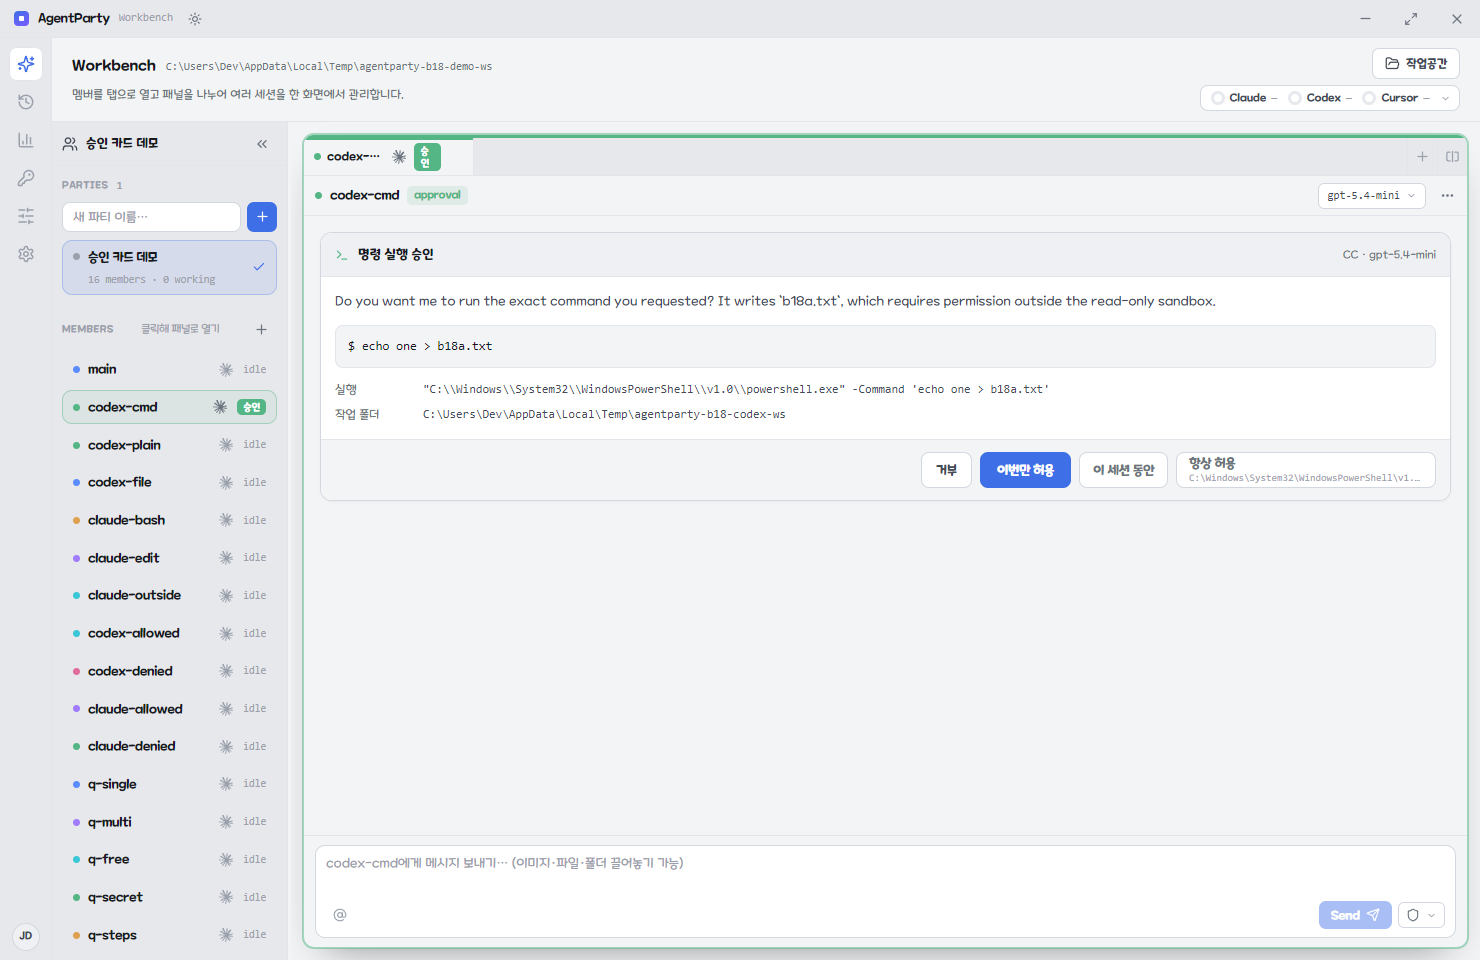
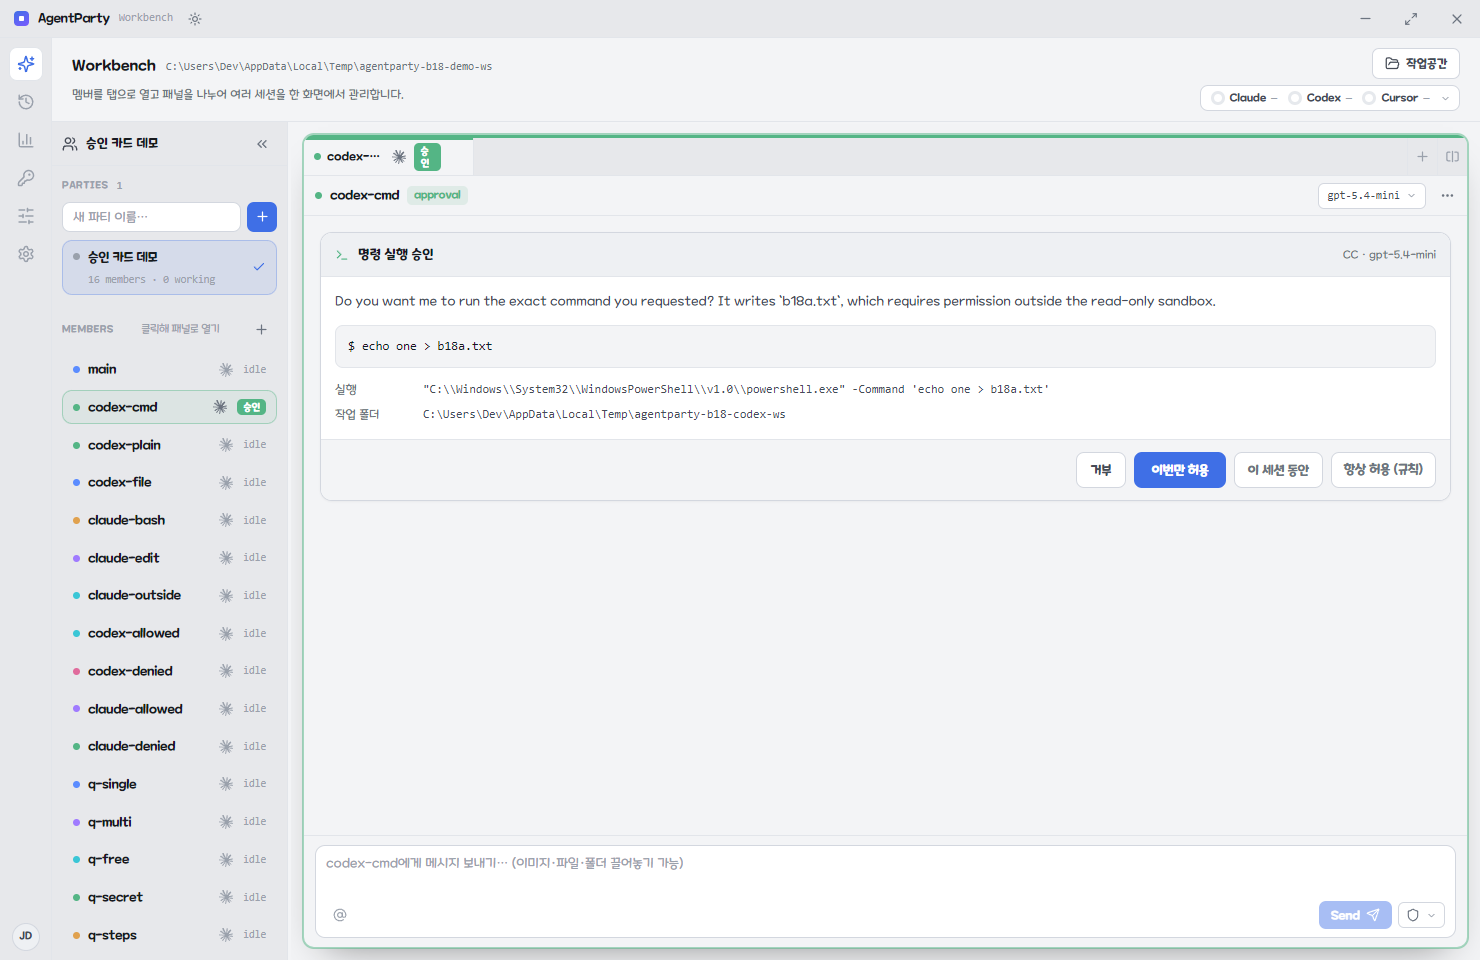
Stop sharing one card body between Claude and Codex
The two harnesses send different data, so a single body shape leaves one of them
wrong. Codex sends two rows that need aligning (실행 + 작업 폴더), which is what
the 76px label grid is for; Claude sends one path and was borrowing that grid,
so its card showed a label column with a single item and empty space beside it.
Claude now renders that path as a plain line and has no meta region at all.

Also carries `secret` and `other` through the QA injection path, which
normalizeQuestions was dropping — the mock could only ever produce the plainest
question, so the masked-input variant was unreachable.

Dark mode gets a stronger step between the bands: --bg-3 sits close enough to
--bg-2 there that head, body and footer read as one surface and the structure
the design is built on disappears.

The metrics check follows the split — the label grid is asserted on the Codex
card, the path line on Claude's — and gains DOM-property checks, because
masking cannot be seen in a capture: an empty password field and an empty text
field are identical on screen. Measured: the secret question does render
type=password and a plain one type=text, so that part was working and the
screenshot simply could not say so.

⚠ A scripted edit to the metrics file silently no-opped for the THIRD time this
session, again leaving a section that would have "passed" by never running.
Wiring is now grep-asserted before the run rather than after.

Changed region(s): [[0.6216, 0.4688, 0.9635, 0.5312]]

diff --git a/src/renderer/workbench/Transcript.tsx b/src/renderer/workbench/Transcript.tsx
@@ -750,8 +750,12 @@ function ClaudeApprovalBlock({ block, view, density, actions }: { block: Extract
             <DiffLines before={edit.before} after={edit.after} />
           </>
         )}
-        {block.blockedPath && <div className="wb-approval-meta"><span className="wb-mono">경로</span><span>{block.blockedPath}</span></div>}
-        {block.agentID && <div className="wb-approval-meta"><span className="wb-mono">서브에이전트</span><span>{block.agentID}</span></div>}
+        {/* No label/value grid here. Codex sends two rows that need aligning
+            (실행 + 작업 폴더); Claude sends one path, and borrowing the grid left
+            a 76px label column holding a single item with empty space beside it.
+            The harnesses send different data, so they get different bodies. */}
+        {block.blockedPath && <div className="wb-approval-path">{block.blockedPath}</div>}
+        {block.agentID && <div className="wb-approval-path">서브에이전트 {block.agentID}</div>}
       </div>
       <div className="wb-approval-actions">
         <button type="button" className="wb-btn wb-btn-ghost" onClick={() => actions.approve(view.name, block.requestId, "deny")}>거부</button>

diff --git a/src/renderer/styles.css b/src/renderer/styles.css
@@ -2204,6 +2204,20 @@ body.wb-resizing {
   gap: 0;
 }
 
+/*
+ * Dark mode needs a stronger step: --bg-3 sits close enough to --bg-2 there that
+ * the three bands read as one surface and the structure disappears. The border
+ * does the separating instead of the fill alone.
+ */
+[data-theme="dark"] .wb-approval-head,
+[data-theme="dark"] .wb-approval-actions {
+  border-color: var(--border-strong);
+}
+
+[data-theme="dark"] .wb-approval-head {
+  background: var(--bg-4);
+}
+
 /* 머리 — 유형 이름이 먼저, 도구·모델은 부차 정보로 뒤에. */
 .wb-approval-head {
   display: flex;
@@ -5131,6 +5145,17 @@ body.wb-resizing {
 .wb-approval-meta > :not(.wb-mono) {
   font-family: var(--font-mono);
   color: var(--text-1);
+  word-break: break-all;
+}
+
+/*
+ * Claude's single path line. Deliberately NOT the meta grid: that grid exists to
+ * align Codex's two rows, and one item in it reads as a half-empty table.
+ */
+.wb-approval-path {
+  font-family: var(--font-mono);
+  font-size: 12px;
+  color: var(--text-2);
   word-break: break-all;
 }
 

diff --git a/src/main/engine/localEngine.ts b/src/main/engine/localEngine.ts
@@ -474,6 +474,11 @@ function normalizeQuestions(questions: QaQuestion[] | undefined): QaQuestion[] {
     question: String(q.question || "질문"),
     header: q.header ? String(q.header) : undefined,
     multiSelect: Boolean(q.multiSelect),
+    // Carried through, not dropped: without these the mock can only ever make
+    // the plainest question. `secret` decides whether the answer is masked —
+    // a QA tool that silently un-masks a secret prompt is worse than none.
+    secret: Boolean(q.secret),
+    other: q.other === undefined ? undefined : Boolean(q.other),
     options: (Array.isArray(q.options) ? q.options : [])
       .map((o) => ({ label: String(o.label || ""), description: o.description ? String(o.description) : undefined }))
       .filter((o) => o.label),

diff --git a/src/main/engine/engineConnection.ts b/src/main/engine/engineConnection.ts
@@ -64,6 +64,10 @@ export interface QaQuestion {
   question: string;
   header?: string;
   multiSelect?: boolean;
+  /** Mask the answer (Codex marks this per question with `isSecret`). */
+  secret?: boolean;
+  /** Whether a written-in answer is accepted besides the listed options. */
+  other?: boolean;
   options: QaQuestionOption[];
 }
 
